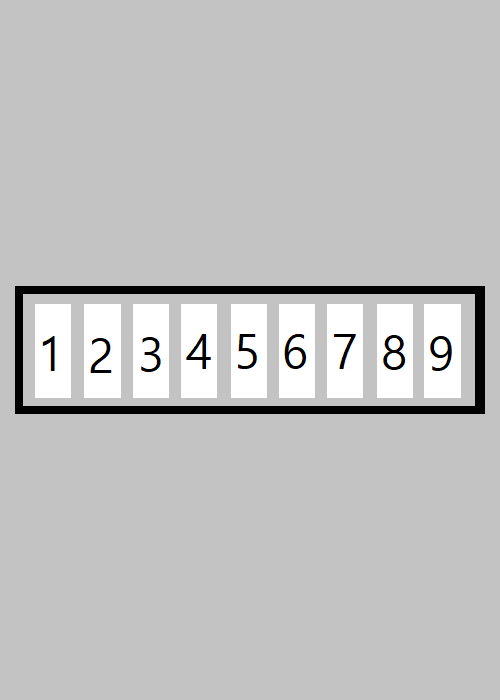
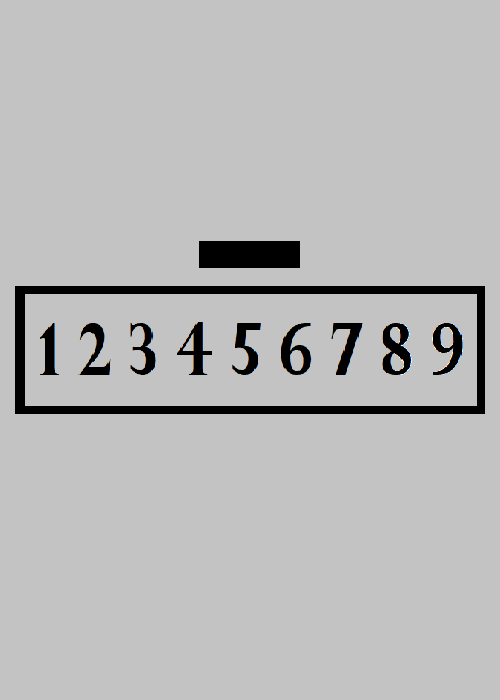
9.0.0 키패드 고급화

Changed region(s): [[0.03, 0.42, 0.96, 0.57], [0.39, 0.33, 0.6, 0.39]]

diff --git a/scary_game.cpp b/scary_game.cpp
@@ -3,15 +3,15 @@
 #include<bangtal.h>
 #include<windows.h>
 #include<math.h>
-int x, y, look = 10, hit = 0, key_count = 0, scene_add = 0;
-char key_input[4];
+int x, y, look = 10, hit = 0, key_count = 0, scene_add = 0, key_input[5] = {5376,0,0,0,0};
 SoundID scary_BGM;
-SceneID sc_start, sc_front, sc_back, sc_right, sc_left, sc_up, sc_down, sc_roof, sc_scary, sc_keypan;
-ObjectID obj, sb, rb, eb, start_sc, light_1, light_2, key, kal, glasses, glasses_wire, keypan;
+SceneID sc_start, sc_front, sc_back, sc_right, sc_left, sc_up, sc_down, sc_roof, sc_scary, sc_keypan1, sc_keypan2;
+ObjectID obj, sb, rb, eb, start_sc, light_1, light_2, key, kal, glasses, glasses_wire, keypan1, keypan2;
 ObjectID wire_item, wire, blood, hammer, huge, win, look_right, look_left, look_up, look_down;
-ObjectID gamesc_front, gamesc_right, gamesc_left, gamesc_up, gamesc_down, gamesc_back, gamesc_roof, numpan;
+ObjectID gamesc_front, gamesc_right, gamesc_left, gamesc_up, gamesc_down, gamesc_back, gamesc_roof, numpan1, numpan2;
 ObjectID roofin, roofin1, roofin2, roofin3, roofinf, roofout;
 ObjectID scary, small_scary, no_scary, empty_scary;
+ObjectID num1, num2, num3, num4, num5, num6, num7, num8, num9;
 ObjectID Object(const char* image, SceneID scene, int x, int y, bool shown) {
 	ObjectID object = createObject(image);
 	locateObject(object, scene, x, y);
@@ -21,7 +21,7 @@ ObjectID Object(const char* image, SceneID scene, int x, int y, bool shown) {
 SoundID playsound(SoundID sound, const char* soundname, const char* soundfile) {
 	sound = createSound(soundfile);
 	showMessage("CAUTION!!!\nBGM IS LOUD");
-	playSound(sound, true);
+	//playSound(sound, true);
 	return sound;
 }
 void goscene(SceneID scene) {
@@ -53,7 +53,7 @@ void goscene(SceneID scene) {
 		scene_add = 6;
 		locateObject(look_down, scene, 215, 0);
 	}
-	else if (scene == sc_keypan) {
+	else if (scene == sc_keypan1) {
 		scene_add = 7;
 		locateObject(look_down, scene, 215, 256);
 	}
@@ -62,32 +62,83 @@ void goscene(SceneID scene) {
 		locateObject(look_up, scene, 215, 570);
 	}
 	else if (scene == sc_roof) scene_add = 9;
+	else if (scene == sc_keypan2) {
+		scene_add = 10;
+		locateObject(look_down, scene, 215, 256);
+	}
+	printf("      scene_add :        %d\n", scene_add);////////////////////////////////////////////////////////////////////
+}
+void winwin() {
+	stopSound(scary_BGM);
+	showMessage("DORE OPENED\n");
+	showObject(win);
+	goscene(sc_front);
+}
+void wrong() {
+	key_count = 0;
+	key_input[1] = 0; 
+	key_input[2] = 0; 
+	key_input[3] = 0;
+	key_input[4] = 0; 
+	showMessage("WRONG PASSWORD!!!\n");
 }
 void keyboardControl(KeyCode code, KeyState state) {
-	if (state == KeyState::KEY_PRESSED && (obj == numpan || obj == keypan)) {
-		if (code == KeyCode::KEY_0) key_input[key_count] = '0';
-		else if (code == KeyCode::KEY_1) key_input[key_count] = '1';
-		else if (code == KeyCode::KEY_2) key_input[key_count] = '2';
-		else if (code == KeyCode::KEY_3) key_input[key_count] = '3';
-		else if (code == KeyCode::KEY_4) key_input[key_count] = '4';
-		else if (code == KeyCode::KEY_5) key_input[key_count] = '5';
-		else if (code == KeyCode::KEY_6) key_input[key_count] = '6';
-		else if (code == KeyCode::KEY_7) key_input[key_count] = '7';
-		else if (code == KeyCode::KEY_8) key_input[key_count] = '8';
-		else if (code == KeyCode::KEY_9) key_input[key_count] = '9';
+	if (state == KeyState::KEY_PRESSED && (scene_add == 7 || scene_add == 10)) {
 		key_count++;
+		if (code == KeyCode::KEY_1) key_input[key_count] = 1;
+		else if (code == KeyCode::KEY_2) key_input[key_count] = 2;
+		else if (code == KeyCode::KEY_3) key_input[key_count] = 3;
+		else if (code == KeyCode::KEY_4) key_input[key_count] = 4;
+		else if (code == KeyCode::KEY_5) key_input[key_count] = 5;
+		else if (code == KeyCode::KEY_6) key_input[key_count] = 6;
+		else if (code == KeyCode::KEY_7) key_input[key_count] = 7;
+		else if (code == KeyCode::KEY_8) key_input[key_count] = 8;
+		else if (code == KeyCode::KEY_9) key_input[key_count] = 9;
+		if (scene_add == 7) {
+			if (key_input[key_count] == 1)num1 = Object("\\images\\num1.png", sc_keypan1, 175 + 25 * key_count, 434, true);
+			else if (key_input[key_count] == 2)num1 = Object("\\images\\num2.png", sc_keypan1, 175 + 25 * key_count, 434, true);
+			else if (key_input[key_count] == 3)num1 = Object("\\images\\num3.png", sc_keypan1, 175 + 25 * key_count, 434, true);
+			else if (key_input[key_count] == 4)num1 = Object("\\images\\num4.png", sc_keypan1, 175 + 25 * key_count, 434, true);
+			else if (key_input[key_count] == 5)num1 = Object("\\images\\num5.png", sc_keypan1, 175 + 25 * key_count, 434, true);
+			else if (key_input[key_count] == 6)num1 = Object("\\images\\num6.png", sc_keypan1, 175 + 25 * key_count, 434, true);
+			else if (key_input[key_count] == 7)num1 = Object("\\images\\num7.png", sc_keypan1, 175 + 25 * key_count, 434, true);
+			else if (key_input[key_count] == 8)num1 = Object("\\images\\num8.png", sc_keypan1, 175 + 25 * key_count, 434, true);
+			else if (key_input[key_count] == 9)num1 = Object("\\images\\num9.png", sc_keypan1, 175 + 25 * key_count, 434, true);
+		}
+		else if (scene_add == 10) {
+			if (key_input[key_count] == 1)num1 = Object("\\images\\num1.png", sc_keypan2, 175 + 25 * key_count, 434, true);
+			else if (key_input[key_count] == 2)num1 = Object("\\images\\num2.png", sc_keypan2, 175 + 25 * key_count, 434, true);
+			else if (key_input[key_count] == 3)num1 = Object("\\images\\num3.png", sc_keypan2, 175 + 25 * key_count, 434, true);
+			else if (key_input[key_count] == 4)num1 = Object("\\images\\num4.png", sc_keypan2, 175 + 25 * key_count, 434, true);
+			else if (key_input[key_count] == 5)num1 = Object("\\images\\num5.png", sc_keypan2, 175 + 25 * key_count, 434, true);
+			else if (key_input[key_count] == 6)num1 = Object("\\images\\num6.png", sc_keypan2, 175 + 25 * key_count, 434, true);
+			else if (key_input[key_count] == 7)num1 = Object("\\images\\num7.png", sc_keypan2, 175 + 25 * key_count, 434, true);
+			else if (key_input[key_count] == 8)num1 = Object("\\images\\num8.png", sc_keypan2, 175 + 25 * key_count, 434, true);
+			else if (key_input[key_count] == 9)num1 = Object("\\images\\num9.png", sc_keypan2, 175 + 25 * key_count, 434, true);
+		}
+		if (state == KeyState::KEY_PRESSED && code == KeyCode::KEY_ESCAPE && key_count > 0 && (scene_add == 7 || scene_add == 10))
+		{
+			if (key_input[key_count] == 1)hideObject(num1);
+			else if (key_input[key_count] == 2)hideObject(num2);
+			else if (key_input[key_count] == 3)hideObject(num3);
+			else if (key_input[key_count] == 4)hideObject(num4);
+			else if (key_input[key_count] == 5)hideObject(num5);
+			else if (key_input[key_count] == 6)hideObject(num6);
+			else if (key_input[key_count] == 7)hideObject(num7);
+			else if (key_input[key_count] == 8)hideObject(num8);
+			else if (key_input[key_count] == 9)hideObject(num9);
+			key_count--;
+		}
+		printf("                    key_count :    %d\n", key_count);//////////////////////////////////
+		printf("         key_input[key_count] :    %d\n\n", key_input[key_count]);/////////////////////
 		if (key_count == 4) {
-			if (key_input[0] == '5' && key_input[1] == '3' && key_input[2] == '7' && key_input[3] == '6') {
-				stopSound(scary_BGM);
-				showMessage("DORE OPENED\n");
-				showObject(win);
-				goscene(sc_front);
-			}
-			else showMessage("WRONG PASSWORD!!!\n");
-			key_count = 0;
+			if (key_input[1] == 5 && key_input[2] == 3 && key_input[3] == 7 && key_input[4] == 6) winwin();
+			else wrong();
 		}
 	}
 }
+
+
 void mouseControl(ObjectID pobj, int px, int py, MouseAction act) {
 	x = px; y = py; obj = pobj;
 	if (getHandObject() == glasses_wire)showObject(wire);
@@ -104,10 +155,11 @@ void mouseControl(ObjectID pobj, int px, int py, MouseAction act) {
 	else if (obj == huge) pickObject(huge);
 	else if (obj == blood && getHandObject() == huge) hideObject(blood);
 	else if (obj == blood) showObject(huge);
-	else if (obj == numpan) goscene(sc_keypan);
+	else if (obj == numpan1) goscene(sc_keypan1);
+	else if (obj == numpan2) goscene(sc_keypan2);
 	else if (obj == look_down && scene_add <= 4) goscene(sc_down);
 	else if (obj == look_up && scene_add <= 4 || obj == roofout) goscene(sc_up);
-	else if (obj == look_right && scene_add == 4 || obj == look_left && scene_add == 3 || obj == look_down && (scene_add == 5 || scene_add == 6 || scene_add == 7) || obj == look_up && scene_add == 8) goscene(sc_front);
+	else if (obj == look_right && scene_add == 4 || obj == look_left && scene_add == 3 || obj == look_down && (scene_add == 5 || scene_add == 6 || scene_add == 7 || scene_add == 10) || obj == look_up && scene_add == 8) goscene(sc_front);
 	else if (obj == look_right && scene_add == 1 || obj == look_left && scene_add == 2) goscene(sc_right);
 	else if (obj == look_right && scene_add == 2 || obj == look_left && scene_add == 1) goscene(sc_left);
 	else if (obj == look_right && scene_add == 3 || obj == look_left && scene_add == 4) goscene(sc_back);
@@ -138,12 +190,14 @@ int main() {
 		sc_down = createScene("", "\\images\\sc.png");
 		sc_scary = createScene("", "\\images\\sc.png");
 		sc_roof = createScene("", "\\images\\sc.png");
-		sc_keypan = createScene("", "\\images\\sc.png");
+		sc_keypan1 = createScene("", "\\images\\sc.png");
+		sc_keypan2 = createScene("", "\\images\\sc.png");
 		start_sc = Object("\\images\\start_sc.png", sc_start, 0, 0, true);
 		sb = Object("\\images\\start.png", sc_start, 38, 55, true);
 		eb = Object("\\images\\end.png", sc_start, 368, 55, true);
 		rb = Object("\\images\\restart.png", sc_front, 500, 55, true);
 		gamesc_front = Object("\\images\\gamesc_front.png", sc_front, 0, 0, true);
+		numpan2 = Object("\\images\\numpan2.png", sc_front, 420, 316, true);
 		no_scary = Object("\\images\\no_scary.png", sc_front, 304, 396, true);
 		small_scary = Object("\\images\\small_scary.png", sc_front, 304, 396, true);
 		empty_scary = Object("\\images\\empty_scary.png", sc_scary, 0, 0, true);
@@ -152,7 +206,7 @@ int main() {
 		scary = Object("\\images\\scary.png", sc_scary, 0, 0, true);
 		gamesc_right = Object("\\images\\gamesc_right.png", sc_right, 0, 0, true);
 		gamesc_left = Object("\\images\\gamesc_left.png", sc_left, 0, 0, true);
-		numpan = Object("\\images\\numpan.png", sc_left, 31, 305, true);
+		numpan1 = Object("\\images\\numpan1.png", sc_left, 31, 305, true);
 		gamesc_back = Object("\\images\\gamesc_back.png", sc_back, 0, 0, true);
 		blood = Object("\\images\\blood.png", sc_back, 31, 283, true);
 		gamesc_up = Object("\\images\\gamesc_up.png", sc_up, 0, 0, true);
@@ -171,7 +225,8 @@ int main() {
 		glasses = Object("\\images\\glasses.png", sc_roof, 415, 163, true);
 		wire_item = Object("\\images\\wire_item.png", sc_roof, 171, 280, true);
 		glasses_wire = Object("\\images\\glasses_wire.png", sc_roof, 422, 580, false);
-		keypan = Object("\\images\\keypan.png", sc_keypan, 0, 0, true);
+		keypan1 = Object("\\images\\keypan.png", sc_keypan1, 0, 0, true);
+		keypan2 = Object("\\images\\keypan.png", sc_keypan2, 0, 0, true);
 		look_right = Object("\\images\\look_right.png", sc_front, 470, 335, true);
 		look_left = Object("\\images\\look_left.png", sc_front, 0, 335, true);
 		look_up = Object("\\images\\look_up.png", sc_front, 215, 670, true);
